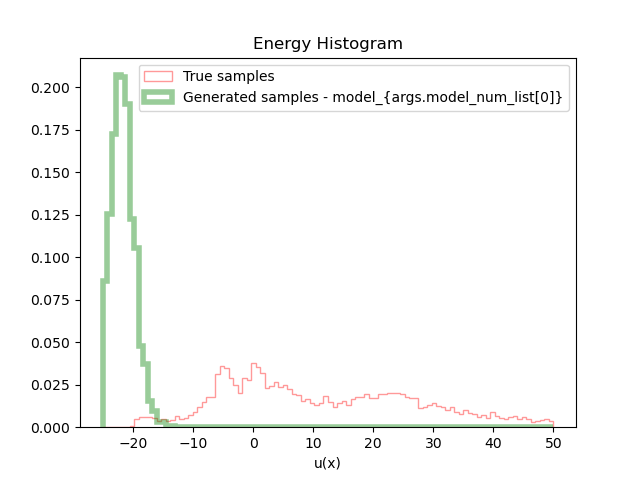
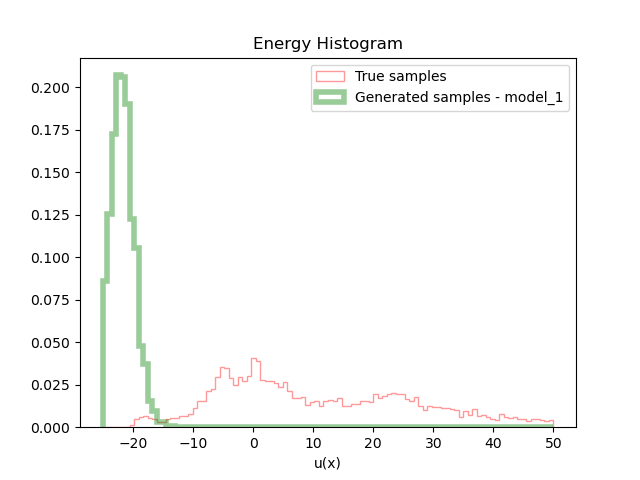
plotting the histograms

diff --git a/eval_and_plot.py b/eval_and_plot.py
@@ -195,7 +195,7 @@ def main():
     parser.add_argument('--trace', type=str, default='hutch', help='hutch | exact')
     parser.add_argument('--data', type=str, default='lj13', help='dw4 | lj13')
     parser.add_argument('--plot', type=bool, default=False)
-    parser.add_argument('--model_num_list', nargs='+', default='0')  
+    parser.add_argument('--model_num_list', nargs='+',type=int, default='0')  
 
     args = parser.parse_args()
 
@@ -240,7 +240,6 @@ def main():
         samples = 10000
         device = torch.device("cuda:0" if torch.cuda.is_available() else "cpu")
         latent = prior.sample(size=[samples, 4, 2], device=device)
-        model_path = f"{model_dir}/best_model_{args.model}/n_data_{args.n_data}/{args.model_num_list[0]}.pth"
         # saved_models_dir = f"{model_dir}/best_model_{args.model}/n_data_{args.n_data}"
         # saved_models_dir = os.path.join(os.getcwd(), models_path)
 
@@ -264,15 +263,16 @@ def main():
             # data, target = dw4_data_and_target()
             # label = os.path.basename(model_path)[0]
             # plot_generating_flow(args, data, flow, prior, target, latent, samples, ax=ax, label=label)
-        
-        flow = load_and_test_model(args, model_path, n_particles, n_dims)
-        data, target = dw4_data_and_target()
-        label = 'Generated samples - model_{args.model_num_list[0]}'
-        plot_generating_flow(args, data, flow, prior, target, latent, samples, ax=ax, label=label)
+        for model_num in args.model_num_list:       
+            model_path = f"{model_dir}/best_model_{args.model}/n_data_{args.n_data}/{model_num}.pth"
+            flow = load_and_test_model(args, model_path, n_particles, n_dims)
+            data, target = dw4_data_and_target()
+            label = f'Generated samples - model_{model_num}'
+            plot_generating_flow(args, data, flow, prior, target, latent, samples, ax=ax, label=label)
 
-        save_best_path = f"generated_hists/model_{args.model_num_list[0]}.png"
-        os.makedirs(os.path.dirname(save_best_path), exist_ok=True)
-        plt.savefig(save_best_path)
+            save_best_path = f"generated_hists/model_{model_num}.png"
+            os.makedirs(os.path.dirname(save_best_path), exist_ok=True)
+            plt.savefig(save_best_path)
         print('done')
 
 
